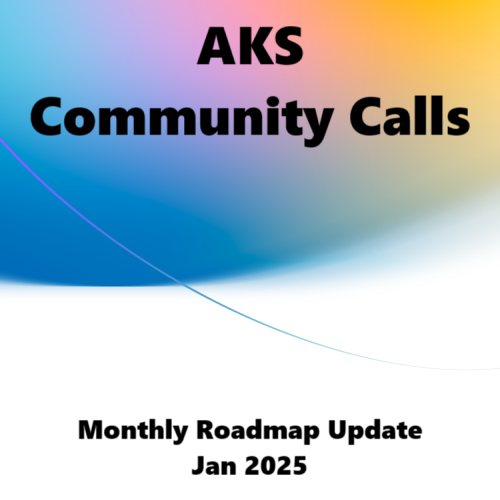
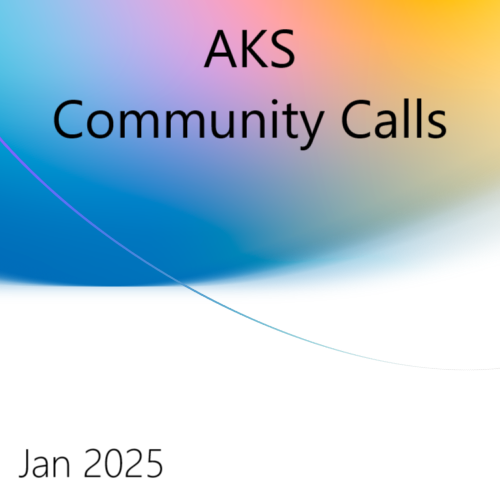
Jan roadmap udpate changes

Changed region(s): [[0.06, 0.18, 0.96, 0.3], [0.03, 0.84, 0.84, 0.96], [0.39, 0.03, 0.63, 0.15]]

diff --git a/blog/_pages/webinars.md b/blog/_pages/webinars.md
@@ -1,19 +1,18 @@
 ---
-title: "Webinars"
-layout: custompage
-
+title: "AKS - Community Calls"
+layout: splash
 
 permalink: /webinars/
-date: 2024-12-03T11:48:41-04:00
+date: 2024-12-17T11:48:41-04:00
 header:
   overlay_color: "#000"
-  overlay_image: 
+  overlay_image: /assets/webinars/AKS-CommunityCalls-Banner.png
 excerpt: ""
 
 intro: 
   - excerpt: 'We are excited to invite you to our new public community calls for Azure Kubernetes Service (AKS). These sessions will be a great opportunity to discuss the product roadmap, witness demos of new features, provide feedback, and get your product questions answered. '
 feature_row2:
-  - image_path: /assets/webinars/Jan2025/Jan2025-Vert.png
+  - image_path: /assets/webinars/Jan2025/Jan2025-Square.png
 
     alt: "AKS Monthly Roadmap Update - Jan 2025"
     title: "AKS Monthly Roadmap Update - Jan 2025"
@@ -23,8 +22,8 @@ feature_row2:
     <br>
     <strong>Phill Gibson:</strong>&nbsp; Phill is a Senior Product Manager at Microsoft, specializing in cloud native tools and technology within the open-source division. With a diverse background in software development, systems architecture, consulting, and product management, Phill has contributed to numerous open-source projects throughout his career.
     <br>
-    <a HREF='../assets/webinars/Jan2025/Dec11-Webinar-AKS_Feature_Announcements_from_KubeCon_Ignite .ics'>Add Event to my calendar</a>"
-    url: "https://teams.microsoft.com/dl/launcher/launcher.html?url=%2F_%23%2Fl%2Fmeetup-join%2F19%3Ameeting_YjA0NTdiNjItOGU1OS00MTQwLWJlZjUtNjNmYzIzOWYyZTYy%40thread.v2%2F0%3Fcontext%3D%257b%2522Tid%2522%253a%252272f988bf-86f1-41af-91ab-2d7cd011db47%2522%252c%2522Oid%2522%253a%2522e3e368ba-66aa-4e1b-86f6-63f9c1a9ac62%2522%257d%26anon%3Dtrue&type=meetup-join&deeplinkId=dddabe41-bf47-4eca-9e5d-7b9f3540d402&directDl=true&msLaunch=true&enableMobilePage=true&suppressPrompt=true"
+    <a HREF='../assets/webinars/Recurring-AKS Community Roadmap Call.ics'>Add Event to my calendar</a>"
+    url: "https://teams.microsoft.com/l/meetup-join/19%3ameeting_YjA0NTdiNjItOGU1OS00MTQwLWJlZjUtNjNmYzIzOWYyZTYy%40thread.v2/0?context=%7b%22Tid%22%3a%2272f988bf-86f1-41af-91ab-2d7cd011db47%22%2c%22Oid%22%3a%22e3e368ba-66aa-4e1b-86f6-63f9c1a9ac62%22%7d"
     btn_label: "Join Now"
     btn_class: "btn--primary"
 
@@ -44,7 +43,8 @@ feature_row3:
     btn_class: "btn--primary"
 ---
 
-{% include feature_row id="intro" type="justified" %}
+
+  {% include feature_row id="intro" type="justified" %}
 
 {% include feature_row id="feature_row2" type="left" %}
 
